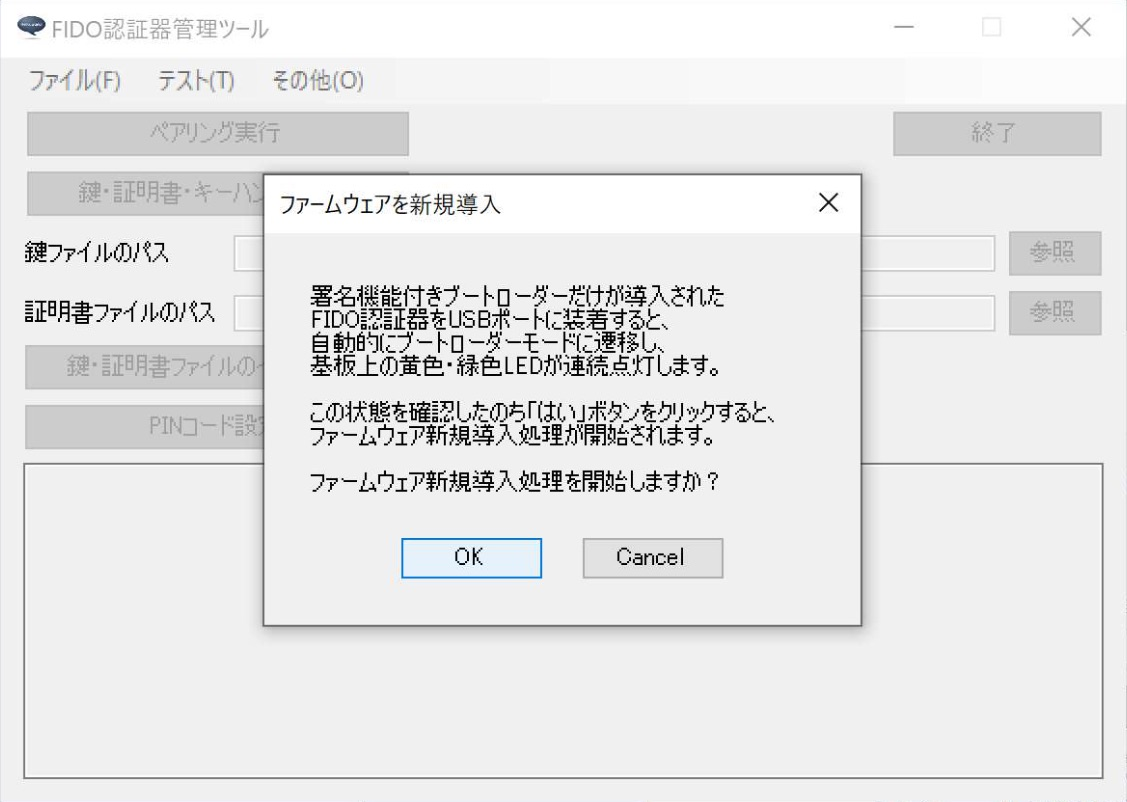
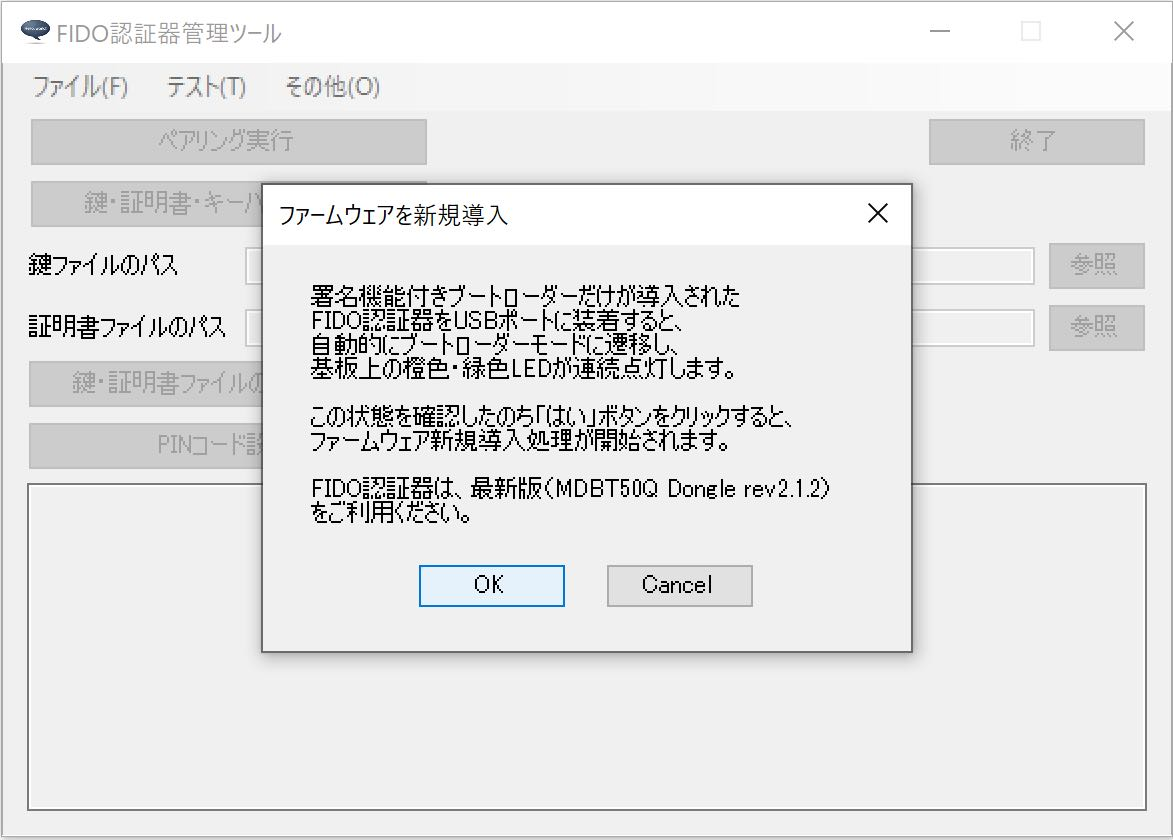
ドキュメントを修正
・画面修正内容をドキュメントに反映

diff --git a/MaintenanceTool/WindowsExe/INSTALLFIRMWARE.md b/MaintenanceTool/WindowsExe/INSTALLFIRMWARE.md
@@ -6,7 +6,7 @@
 
 ### ご注意
 
-[「署名機能付きUSBブートローダー移行手順書」](../../nRF5_SDK_v15.3.0/firmwares/secure_bootloader/MIGRATION.md)に記載の、ブートローダー導入手順により、[署名機能付きUSBブートローダー](../../nRF5_SDK_v15.3.0/firmwares/secure_bootloader)だけが導入されている状態のMDBT50Q Dongleをご使用ください。
+アプリケーション・ファームウェアが導入されていない状態の、最新版MDBT50Q Dongle（rev2.1.2）をご使用ください。
 
 既にアプリケーション・ファームウェアが導入されているMDBT50Q Dongleに対しては、本機能は使用できません。
 
@@ -14,14 +14,14 @@
 
 まず最初に、MDBT50Q Dongleの背面にあるボタン電池ケースに、電池が入っていないことを必ず確認します。
 
-<img src="../../nRF5_SDK_v15.3.0/firmwares/assets02/0000.png" width="400">
+<img src="../../FIDO2Device/MDBT50Q_Dongle/pcb_rev2_1_2/assets/0011.jpg" width="400">
 
 次に、署名機能付きUSBブートローダーだけが導入されている状態のMDBT50Q Dongleを、PCのUSBポートに装着します。<br>
 MDBT50Q Dongleは、自動的にブートローダーモードに遷移します。
 
-MDBT50Q Dongleの緑色・黄色のLEDが同時点灯していることを確認します。
+MDBT50Q Dongleの橙色・黄色のLEDが同時点灯していることを確認します。
 
-<img src="../../MaintenanceTool/macOSApp/assets02/0011.jpg" width="300">
+<img src="../../FIDO2Device/MDBT50Q_Dongle/pcb_rev2_1_2/assets/0006.jpg" width="400">
 
 管理ツールを起動し、ファイルメニューから「ファームウェアを新規導入」を選択します。
 
@@ -46,7 +46,7 @@ MDBT50Q Dongleの緑色・黄色のLEDが同時点灯していることを確認
 
 MDBT50Q Dongleの緑色のLEDが点滅していることを確認します。
 
-<img src="../../MaintenanceTool/macOSApp/assets02/0010.jpg" width="400">
+<img src="../../FIDO2Device/MDBT50Q_Dongle/pcb_rev2_1_2/assets/0003.jpg" width="400">
 
 以上で、ファームウェア新規導入処理は完了となります。
 

diff --git a/MaintenanceTool/macOSApp/INSTALLFIRMWARE.md b/MaintenanceTool/macOSApp/INSTALLFIRMWARE.md
@@ -6,7 +6,7 @@
 
 ### ご注意
 
-[「署名機能付きUSBブートローダー移行手順書」](../../nRF5_SDK_v15.3.0/firmwares/secure_bootloader/MIGRATION.md)に記載の、ブートローダー導入手順により、[署名機能付きUSBブートローダー](../../nRF5_SDK_v15.3.0/firmwares/secure_bootloader)だけが導入されている状態のMDBT50Q Dongleをご使用ください。
+アプリケーション・ファームウェアが導入されていない状態の、最新版MDBT50Q Dongle（rev2.1.2）をご使用ください。
 
 既にアプリケーション・ファームウェアが導入されているMDBT50Q Dongleに対しては、本機能は使用できません。
 
@@ -14,14 +14,14 @@
 
 まず最初に、MDBT50Q Dongleの背面にあるボタン電池ケースに、電池が入っていないことを必ず確認します。
 
-<img src="../../nRF5_SDK_v15.3.0/firmwares/assets02/0000.png" width="400">
+<img src="../../FIDO2Device/MDBT50Q_Dongle/pcb_rev2_1_2/assets/0011.jpg" width="400">
 
 次に、署名機能付きUSBブートローダーだけが導入されている状態のMDBT50Q Dongleを、PCのUSBポートに装着します。<br>
 MDBT50Q Dongleは、自動的にブートローダーモードに遷移します。
 
 MDBT50Q Dongleの緑色・黄色のLEDが同時点灯していることを確認します。
 
-<img src="assets02/0011.jpg" width="300">
+<img src="../../FIDO2Device/MDBT50Q_Dongle/pcb_rev2_1_2/assets/0006.jpg" width="400">
 
 管理ツールを起動し、ファイルメニューから「ファームウェアを新規導入」を選択します。
 
@@ -46,7 +46,7 @@ MDBT50Q Dongleの緑色・黄色のLEDが同時点灯していることを確認
 
 MDBT50Q Dongleの緑色のLEDが点滅していることを確認します。
 
-<img src="assets02/0010.jpg" width="400">
+<img src="../../FIDO2Device/MDBT50Q_Dongle/pcb_rev2_1_2/assets/0003.jpg" width="400">
 
 以上で、ファームウェア新規導入処理は完了となります。
 
